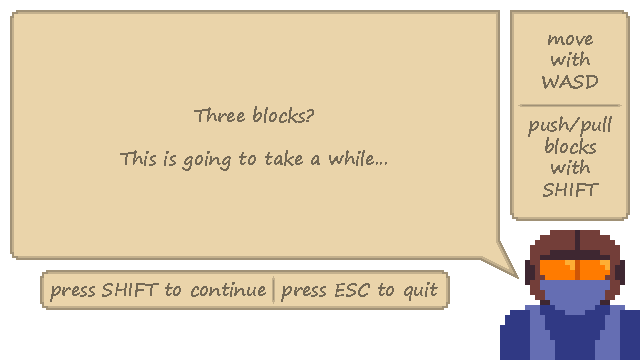
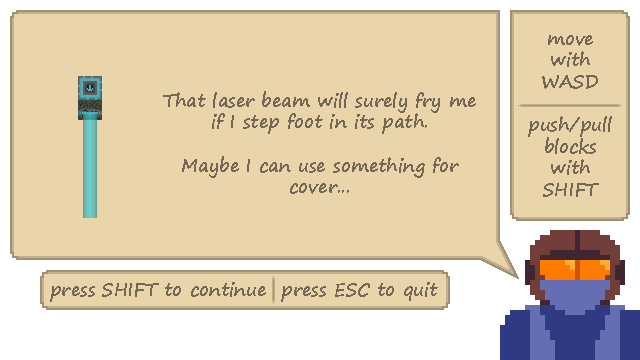
updated floor 5 instructions, changed bgm to play continuously

Changed region(s): [[0.25, 0.2444, 0.75, 0.3667], [0.1875, 0.3972, 0.7188, 0.55], [0.125, 0.2139, 0.1562, 0.6111]]

diff --git a/src/scenes/Play.js b/src/scenes/Play.js
@@ -44,7 +44,6 @@ class Play extends Phaser.Scene {
         this.load.audio('sfx_step', './assets/step.mp3');
         this.load.audio('sfx_push', './assets/push.mp3');
         this.load.audio('sfx_click', './assets/click.mp3');
-        this.load.audio('bgm', './assets/bgm.mp3');
         this.load.audio('sfx_spike', './assets/spike.wav');
         this.load.audio('sfx_door_open', './assets/door_open.mp3');
         //this.load.audio('sfx_door_close', './assets/door_close.wav');
@@ -306,8 +305,12 @@ class Play extends Phaser.Scene {
         this.door_open_sfx = this.sound.add('sfx_door_open').setLoop(false);
         this.block_fall_sfx = this.sound.add('sfx_blockfall').setLoop(false);
         this.laser_sfx = this.sound.add('sfx_laser').setLoop(false);
-        this.bgm = this.sound.add('bgm').setLoop(true);
-        this.bgm.play({volume: 0.25});
+
+        this.tweens.add({
+            targets: [bgm],
+            volume: 0.25,
+            duration: 1000
+        });
 
         this.instructions = this.add.image(0, game.config.height, 'instructions_' + floor).setOrigin(0).setDepth(12).setAlpha(0);
         this.time.delayedCall(1000, () => {
@@ -374,12 +377,16 @@ class Play extends Phaser.Scene {
                 ease: 'Power1'
             });
             this.tweens.add({
-                targets: [this.bgm],
+                targets: [bgm],
                 volume: 0,
                 duration: 1500
             })
             this.time.delayedCall(3000, () => {
-                this.bgm.stop();
+                this.tweens.add({
+                    targets: [bgm],
+                    volume: 0,
+                    duration: 1500
+                })
                 this.scene.restart();
             });
         }
@@ -431,12 +438,11 @@ class Play extends Phaser.Scene {
                     ease: 'Power1'
                 });
                 this.tweens.add({
-                    targets: [this.bgm],
+                    targets: [bgm],
                     volume: 0,
                     duration: 1500
                 })
                 this.time.delayedCall(3000, () => {
-                    this.bgm.stop();
                     this.scene.restart();
                 });
             }
@@ -478,15 +484,14 @@ class Play extends Phaser.Scene {
 
         if (this.goal === this.block1.anims.currentFrame.index + this.block2.anims.currentFrame.index + this.block3.anims.currentFrame.index - 3) {
             this.gameOver = true;
-            if (this.bgm.volume === 1) {
+            if (bgm.volume === 1) {
                 this.tweens.add({
-                    targets: [this.bgm],
+                    targets: [bgm],
                     volume: 0,
                     duration: 1500
                 });
             }
             this.time.delayedCall(3000, () => {
-                this.bgm.stop();
                 floor++;
                 if (floor === end) {
                     this.scene.start('victoryScene');
@@ -523,7 +528,7 @@ class Play extends Phaser.Scene {
                     ease: 'Back.easeIn'
                 });
                 this.tweens.add({
-                    targets: [this.bgm],
+                    targets: [bgm],
                     volume: 1,
                     duration: 1000
                 });
@@ -557,7 +562,7 @@ class Play extends Phaser.Scene {
                     ease: 'Back.easeOut'
                 });
                 this.tweens.add({
-                    targets: [this.bgm],
+                    targets: [bgm],
                     volume: 0.25,
                     duration: 1000
                 });
@@ -568,12 +573,7 @@ class Play extends Phaser.Scene {
                     ease: 'power1'
                 });
             } else if (this.instructions.alpha === 1) {
-                this.tweens.add({
-                    targets: [this.bgm],
-                    volume: 0,
-                    duration: 1000
-                })
-                this.bgm.stop();
+                bgm.stop();
                 this.scene.start('menuScene');
             }
         }
@@ -936,12 +936,11 @@ class Play extends Phaser.Scene {
             ease: 'Power1'
         });
         this.tweens.add({
-            targets: [this.bgm],
+            targets: [bgm],
             volume: 0,
             duration: 1500
         })
         this.time.delayedCall(3000, () => {
-            this.bgm.stop();
             this.scene.restart();
         });
     }

diff --git a/src/scenes/Menu.js b/src/scenes/Menu.js
@@ -5,12 +5,16 @@ class Menu extends Phaser.Scene {
 
     preload(){
         this.load.image('menu', './assets/menu(bad).png');
+        this.load.audio('bgm', './assets/bgm.mp3');
     }
 
     create() {
         floor = 0;
         keyENTER = this.input.keyboard.addKey(Phaser.Input.Keyboard.KeyCodes.ENTER);
         this.menuimg = this.add.image(0, 0, 'menu').setOrigin(0, 0);
+        bgm = this.sound.add('bgm').setLoop(true);
+        bgm.stop();
+        bgm.play({volume: 0.25});
     }
 
     update(){

diff --git a/src/main.js b/src/main.js
@@ -16,11 +16,10 @@ let config = {
   scene: [Menu, Play, Victory],
 };
 
-let keyW, keyA, keyS, keyD, keySHIFT, keyENTER, keyESC;
+let keyW, keyA, keyS, keyD, keySHIFT, keyENTER, keyESC, floor, bgm;
 
 let pushSpeed = 600;
 let walkSpeed = 200;
-let floor;
 let end = 6;
 
 let game = new Phaser.Game(config);
